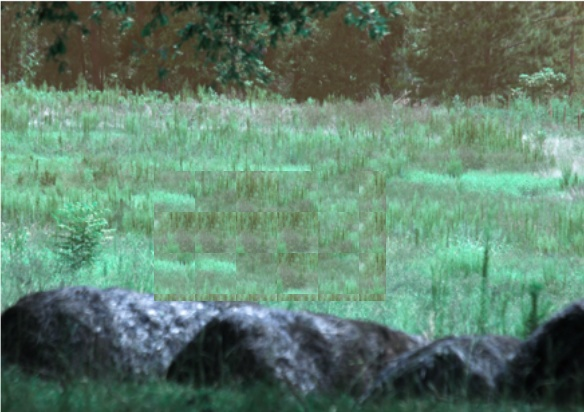
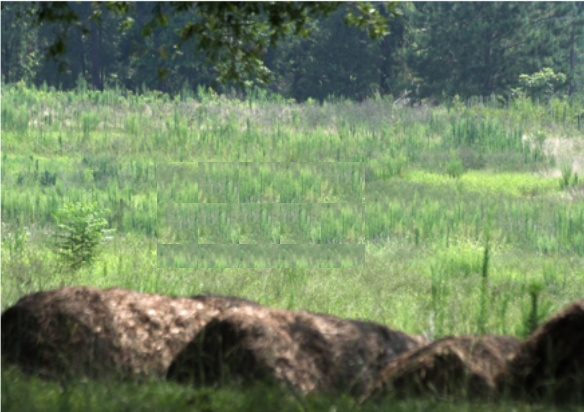
all work done

diff --git a/patchmatch_whole_image.py b/patchmatch_whole_image.py
@@ -100,10 +100,22 @@ def nearestnf(inp1, inp2, siz, iterations):
 			temp2 = np.sum(temp ** 2) / len(temp)
 			off[i, j] = temp2
 
+	# Initial NNF
+	final = do_patches([outx, outy], inp1, inp2, siz)
+	final = final[:old_sz[0], :old_sz[1]]
+
+	plt.subplot(331)
+	plt.axis('off')
+	plt.imshow(final)
+	plt.title("Initial")
+
+
 	for itr in range(iterations):
 		if itr % 2 == 0:
+			tot = inp_shape[0] * inp_shape[1]
+			tot = int(tot / 4)
+			ctr = 0			
 			# Scan Order: Left to Right, Top to Bottom
-			print(inp_shape)
 			for i in range(inp_shape[0]):
 				for j in range(inp_shape[1]):
 
@@ -167,6 +179,23 @@ def nearestnf(inp1, inp2, siz, iterations):
 							outy[i][j] = random_y
 
 						radius *= alpha
+
+					# Various plots at 1/4th 3/4th iteration
+					ctr += 1
+					if ctr == tot and itr == 0:
+						plt.subplot(332)
+						plt.axis('off')
+						final = do_patches([outx, outy], inp1, inp2, siz)
+						final = final[:old_sz[0], :old_sz[1]]
+						plt.imshow(final)
+						plt.title("1 / 4 Iteration")
+					elif ctr == 3 * tot and itr == 0:
+						plt.subplot(333)
+						plt.axis('off')
+						final = do_patches([outx, outy], inp1, inp2, siz)
+						final = final[:old_sz[0], :old_sz[1]]
+						plt.imshow(final)
+						plt.title("3 / 4 Iteration")
 		else:
 			# Reverse Scan Order: Right to Left, Bottom to Top
 			inp_s = [np.uint64(inp_shape[0] - 1), np.uint64(inp_shape[1] - 1)]
@@ -232,6 +261,13 @@ def nearestnf(inp1, inp2, siz, iterations):
 
 						radius *= alpha
 
+		plt.subplot(3, 3, itr + 4)
+		plt.axis('off')
+		final = do_patches([outx, outy], inp1, inp2, siz)
+		final = final[:old_sz[0], :old_sz[1]]
+		plt.imshow(final)
+		plt.title("{} Iteration".format(itr + 1))					
+
 	# final image made by matching patches
 	final =  do_patches([outx, outy], inp1, inp2, siz)
 	final = final[:old_sz[0], :old_sz[1]]
@@ -241,22 +277,24 @@ if len(sys.argv) != 5:
 	print("Please provide proper command line arguments")
 	exit(0)
 
+# Input image
+input_img = cv2.imread(sys.argv[1])
+input_img = cv2.cvtColor(input_img, cv2.COLOR_BGR2RGB)
+input_img_copy = np.copy(input_img)
 
-crop_img1 = cv2.imread(sys.argv[1])
-crop_img2 = cv2.imread(sys.argv[2])
-crop_img1 = cv2.cvtColor(crop_img1, cv2.COLOR_BGR2RGB)
-crop_img2 = cv2.cvtColor(crop_img2, cv2.COLOR_BGR2RGB)
-immm1 = np.copy(crop_img1)
+# Refernce image
+ref_img = cv2.imread(sys.argv[2])
+ref_img = cv2.cvtColor(ref_img, cv2.COLOR_BGR2RGB)
 
-im = nearestnf(crop_img1, crop_img2, int(sys.argv[3]), int(sys.argv[4]))
+im = nearestnf(input_img, ref_img, int(sys.argv[3]), int(sys.argv[4]))
 
 plt.subplot(3,3,7)
 plt.axis('off')
-plt.imshow(immm1)
+plt.imshow(input_img_copy)
 plt.title("Original Image")
 plt.subplot(3,3,8)
 plt.axis('off')
-plt.imshow(crop_img2)
+plt.imshow(ref_img)
 plt.title("Reference Image")
 plt.subplot(3,3,9)
 plt.axis('off')

diff --git a/patchmatch_object_removal.py b/patchmatch_object_removal.py
@@ -103,7 +103,6 @@ def nearestnf(inp1, inp2, siz, iterations):
 	for itr in range(iterations):
 		if itr % 2 == 0:
 			# Scan Order: Left to Right, Top to Bottom
-			print(inp_shape)
 			for i in range(inp_shape[0]):
 				for j in range(inp_shape[1]):
 
@@ -243,7 +242,6 @@ if __name__ == "__main__":
 		exit(0)
 
 	image = cv2.imread(sys.argv[1])
-	image = cv2.cvtColor(image, cv2.COLOR_BGR2RGB)
 	input_img = np.copy(image)
 	clone = image.copy()
 
@@ -275,7 +273,6 @@ if __name__ == "__main__":
 
 
 	image = cv2.imread(sys.argv[2])
-	image = cv2.cvtColor(image, cv2.COLOR_BGR2RGB)
 	ref_img = np.copy(image)
 	clone = image.copy()
 
@@ -300,6 +297,12 @@ if __name__ == "__main__":
 
 	cv2.destroyAllWindows()
 
+	input_img = cv2.cvtColor(input_img, cv2.COLOR_BGR2RGB)
+	ref_img = cv2.cvtColor(ref_img, cv2.COLOR_BGR2RGB)
+
+	crop_img1 = cv2.cvtColor(crop_img1, cv2.COLOR_BGR2RGB)
+	crop_img2 = cv2.cvtColor(crop_img2, cv2.COLOR_BGR2RGB)
+
 	crop_img1 = np.double(crop_img1)
 	crop_img2 = np.double(crop_img2)
 	
@@ -311,7 +314,7 @@ if __name__ == "__main__":
 
 	name = './static/results/' + sys.argv[1].split("/")[-1].split(".")[0] + "_" + sys.argv[2].split("/")[-1].split(".")[0]	 + "_res.jpg"
 
-	cv2.imwrite(name,cv2.cvtColor(input_img, cv2.COLOR_RGBR2BGR))
+	cv2.imwrite(name,cv2.cvtColor(input_img, cv2.COLOR_RGB2BGR))
 	plt.subplot(1,2,1)
 	plt.imshow(ref_img)
 	plt.subplot(1,2,2)

diff --git a/README.md b/README.md
@@ -50,15 +50,18 @@ We find the matching path by randomly selecting a path initially and imporvising
  ```
 `patchmatch_object_removal.py` is an extension of the proposed algorithm to use it for object removal from images. To run this file execute the following command,
 
-  ```
+```
 foo@bar:~$ python3 patchmatch_object_removal.py <input_image> <target_image> <patch_size> <iterations>
 ```
+
 #### Steps:
   1. After executing the above command user will be shown the `input_image`.
-  2. User needs to draw a rectandle using mouse around the objects that is needed to be removed
-  3. After that user will be shown the `target_image`
-  4. User needs to draw rectangle around the area/texture with which the objects selected in the previous image needs to be replaced.
-  5. After this the algorithm will run and user will be shown the `input_image` after removing the selected objects as a final result.
+  2. User needs to draw a rectandle using mouse around the objects that is needed to be removed.
+  3. Press `c` to select the target image or `r` to redraw to rectagle. Press `q` is satisfied by cropped image.
+  4. After that user will be shown the `target_image`
+  5. User needs to draw rectangle around the area/texture with which the objects selected in the previous image needs to be replaced.
+  6. Repeat step `3` to get cropped image of target_image
+  7. After this the algorithm will run and user will be shown the `input_image` after removing the selected objects as a final result.
 
 ### Flask Application
 
@@ -71,7 +74,13 @@ foo@bar:~$ python3 app.py
  ```
 Then go to localhost to use the app.
 
+- Upload input image in the left box.
+- Upload refence image in the right box.
+- Press `run` button to get ouput. 
+
 ### Results
+  ![Whole image reconstructed](Results/Figure_1.png)
+  ![Object removal reconstructed](Results/Tractor.jpeg)
 
 
 ### Contributors
